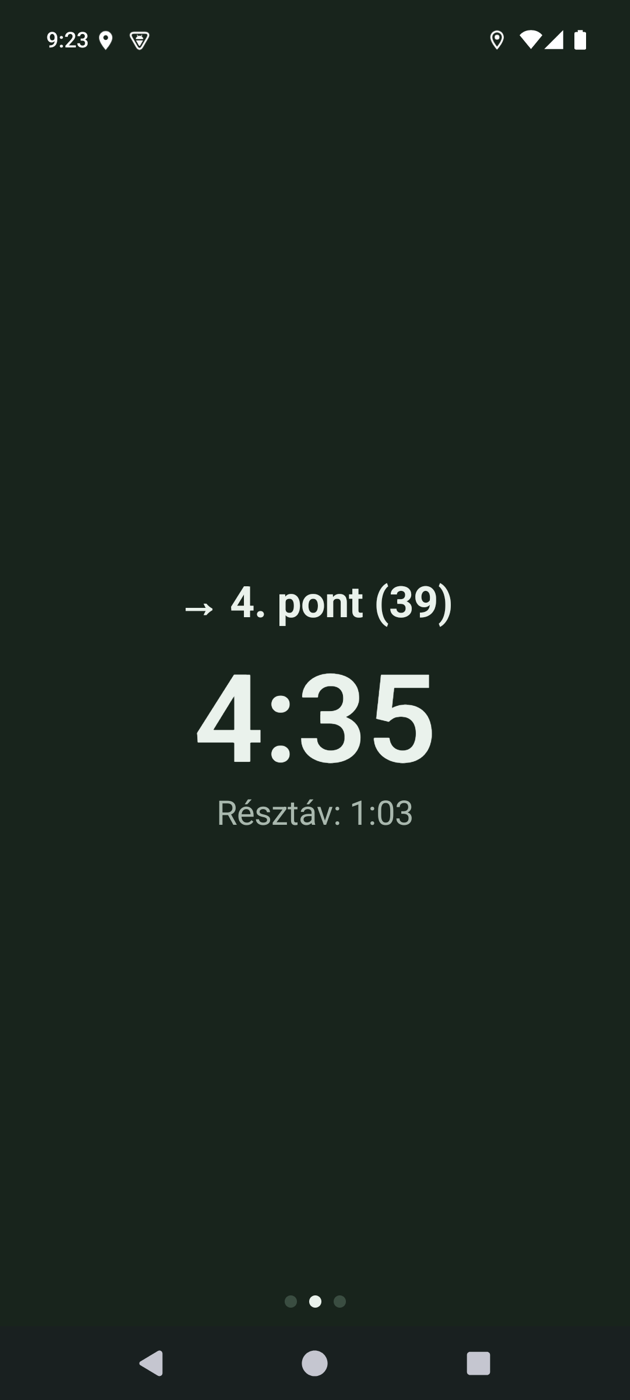
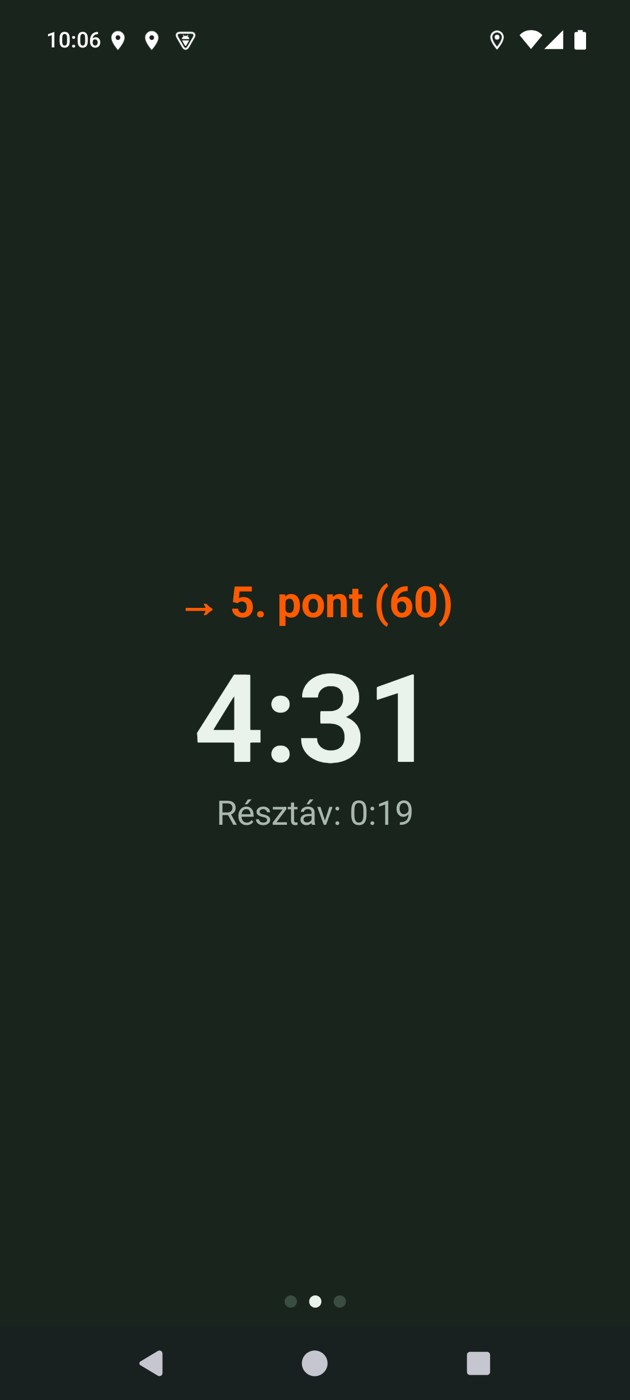
Weboldal: két képsáv (iPhone & Apple Watch, Android), Livelox- és segítség-képek

diff --git a/index.html b/index.html
@@ -93,6 +93,7 @@
   .lead .lx:hover, .lead .lx:focus-visible { text-decoration: underline; }
   a.fn { color: var(--orange); text-decoration: none; font-weight: 700; padding: 0 2px; }
   .footnote { font-size: 13.5px; color: var(--muted); margin: 0 0 10px; }
+  .gal-h { font-size: 18px; margin: 26px 0 12px; }
   .gallery { display: flex; gap: 18px; overflow-x: auto; scroll-snap-type: x mandatory; padding: 4px 4px 14px; -webkit-overflow-scrolling: touch; }
   .shot { flex: none; margin: 0; scroll-snap-align: start; width: 220px; }
   .shot img { display: block; width: 100%; height: auto; border-radius: 26px; border: 1px solid var(--line); background: #000; }
@@ -278,23 +279,29 @@
     <div class="wrap">
       <h2><span class="hu">Így néz ki</span><span class="en">What it looks like</span></h2>
       <p class="sub"><span class="hu">Képek az iPhone-, az Apple Watch- és az Android-appból. Húzd oldalra a többihez.</span><span class="en">Screens from the iPhone, Apple Watch and Android apps. Swipe for more.</span></p>
+      <h3 class="gal-h">iPhone &amp; Apple Watch</h3>
       <div class="gallery">
-        <figure class="shot"><img src="assets/screens/iphone-livelox.png" width="646" height="1400" loading="lazy" alt="Livelox-import: szűrők és eseménylista (iPhone)">
+        <figure class="shot"><img src="assets/screens/iphone-livelox.png" width="646" height="1400" loading="lazy" alt="Livelox-import: szűrők és eseménylista">
           <figcaption><span class="hu">Livelox-import: szűrők és eseménylista</span><span class="en">Livelox import: filters and event list</span></figcaption></figure>
-        <figure class="shot"><img src="assets/screens/iphone-map.png" width="644" height="1400" loading="lazy" alt="Pálya a térképen (iPhone)">
-          <figcaption><span class="hu">Pálya a térképen (iPhone)</span><span class="en">Course on the map (iPhone)</span></figcaption></figure>
-        <figure class="shot"><img src="assets/screens/iphone-run.png" width="644" height="1400" loading="lazy" alt="Futás közben (iPhone)">
-          <figcaption><span class="hu">Futás közben (iPhone)</span><span class="en">While running (iPhone)</span></figcaption></figure>
-        <figure class="shot"><img src="assets/screens/iphone-courses.png" width="644" height="1400" loading="lazy" alt="Pályák listája (iPhone)">
-          <figcaption><span class="hu">Pályák listája (iPhone)</span><span class="en">Course list (iPhone)</span></figcaption></figure>
+        <figure class="shot"><img src="assets/screens/iphone-map.png" width="644" height="1400" loading="lazy" alt="Pálya a térképen">
+          <figcaption><span class="hu">Pálya a térképen</span><span class="en">Course on the map</span></figcaption></figure>
+        <figure class="shot"><img src="assets/screens/iphone-run.png" width="644" height="1400" loading="lazy" alt="Futás közben">
+          <figcaption><span class="hu">Futás közben</span><span class="en">While running</span></figcaption></figure>
+        <figure class="shot"><img src="assets/screens/iphone-help.png" width="646" height="1400" loading="lazy" alt="Segítség: irány és távolság">
+          <figcaption><span class="hu">Segítség: irány és távolság</span><span class="en">Help: direction and distance</span></figcaption></figure>
         <figure class="shot watch"><img src="assets/screens/watch-run.png" width="422" height="398" loading="lazy" alt="Futás Apple Watch-on">
           <figcaption><span class="hu">Futás Apple Watch-on</span><span class="en">Running on Apple Watch</span></figcaption></figure>
-        <figure class="shot"><img src="assets/screens/android-map.png" width="630" height="1400" loading="lazy" alt="Pálya a térképen (Android)">
-          <figcaption><span class="hu">Pálya a térképen (Android)</span><span class="en">Course on the map (Android)</span></figcaption></figure>
-        <figure class="shot"><img src="assets/screens/android-run.png" width="630" height="1400" loading="lazy" alt="Futás közben (Android)">
-          <figcaption><span class="hu">Futás közben (Android)</span><span class="en">While running (Android)</span></figcaption></figure>
-        <figure class="shot"><img src="assets/screens/android-arrow.png" width="630" height="1400" loading="lazy" alt="Iránymutatás a következő pontig">
-          <figcaption><span class="hu">Iránymutatás a következő pontig</span><span class="en">Direction to the next control</span></figcaption></figure>
+      </div>
+      <h3 class="gal-h">Android</h3>
+      <div class="gallery">
+        <figure class="shot"><img src="assets/screens/android-livelox.png" width="630" height="1400" loading="lazy" alt="Livelox-import: szűrők és eseménylista">
+          <figcaption><span class="hu">Livelox-import: szűrők és eseménylista</span><span class="en">Livelox import: filters and event list</span></figcaption></figure>
+        <figure class="shot"><img src="assets/screens/android-map.png" width="630" height="1400" loading="lazy" alt="Pálya a térképen">
+          <figcaption><span class="hu">Pálya a térképen</span><span class="en">Course on the map</span></figcaption></figure>
+        <figure class="shot"><img src="assets/screens/android-run.png" width="630" height="1400" loading="lazy" alt="Futás közben">
+          <figcaption><span class="hu">Futás közben</span><span class="en">While running</span></figcaption></figure>
+        <figure class="shot"><img src="assets/screens/android-arrow.png" width="630" height="1400" loading="lazy" alt="Segítség: irány és távolság">
+          <figcaption><span class="hu">Segítség: irány és távolság</span><span class="en">Help: direction and distance</span></figcaption></figure>
       </div>
     </div>
   </section>
